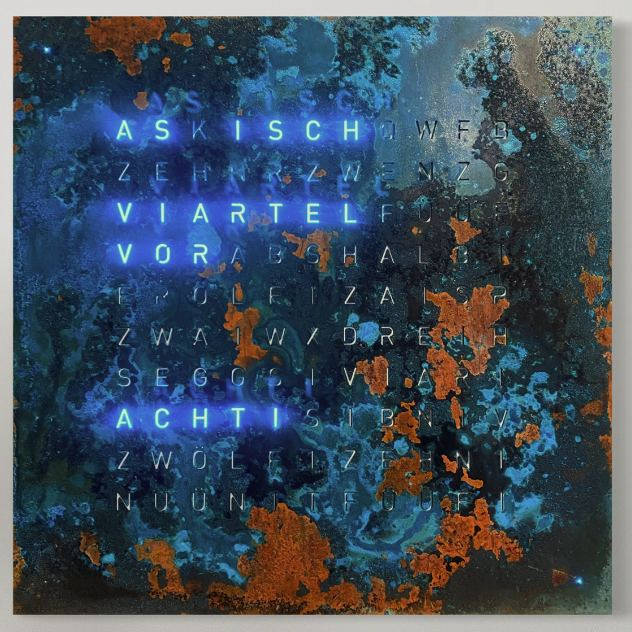
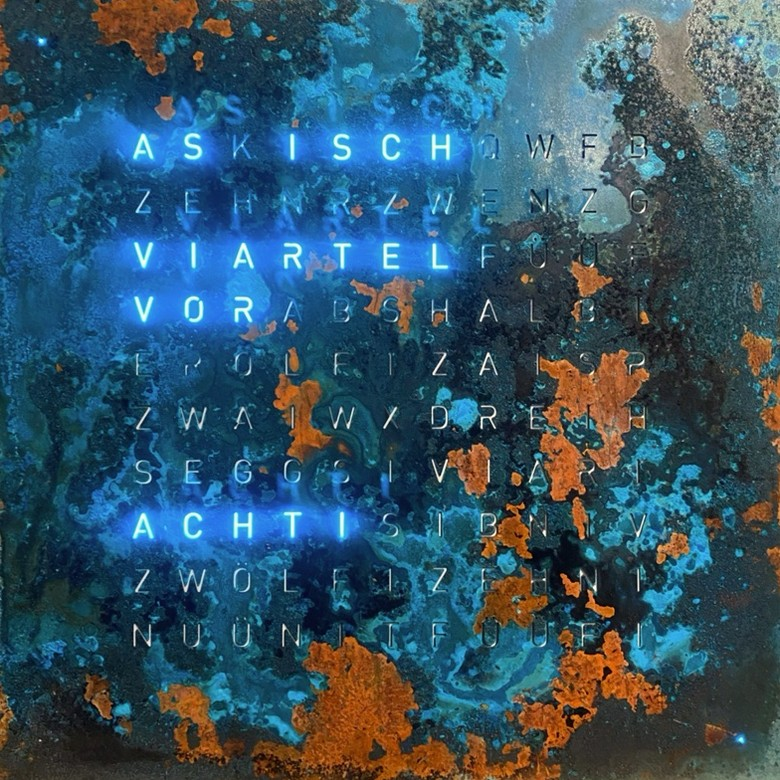
Startbild: Kupferpatina im Raum (Originalfoto)
Claude-Session: https://claude.ai/code/session_017W5qkBRjv2JsauTv83N6ap

diff --git a/index.html b/index.html
@@ -254,7 +254,7 @@ footer .w{display:flex;gap:12px 24px;flex-wrap:wrap;justify-content:space-betwee
         <div class="facts"><span>Ihr eigener Wortlaut</span><span>Jeder RAL- und NCS-Farbton</span><span>Licht per Handy</span><span>Handarbeit aus Fideris</span></div>
       </div>
       <figure class="hero-photo">
-        <img src="bilder/hero-patina.jpg" alt="Wortuhr in Kupferpatina, blau leuchtend: AS ISCH VIARTEL VOR ACHTI" width="1200" height="1200" style="aspect-ratio:1/1">
+        <img src="bilder/hero-patina.jpg" alt="Wortuhr in Kupferpatina über einer Konsole mit Lampe und Vase, blau leuchtend: AS ISCH VIARTEL VOR ACHTI" width="1600" height="1047" style="aspect-ratio:auto">
         <figcaption>Kupferpatina · «As isch viartel vor achti»</figcaption>
       </figure>
     </div>
@@ -392,7 +392,7 @@ footer .w{display:flex;gap:12px 24px;flex-wrap:wrap;justify-content:space-betwee
         <figure data-cat="patina detail"><button type="button" class="g-open" aria-label="Gross anzeigen: Kupferpatina · Nahaufnahme"><img src="bilder/galerie/patina-detail-1.jpg" alt="Kupferpatina mit Buchstaben im Detail" loading="lazy" width="750" height="1000"></button><figcaption>Kupferpatina · Nahaufnahme</figcaption></figure>
         <figure data-cat="patina detail"><button type="button" class="g-open" aria-label="Gross anzeigen: Kupferpatina · Nahaufnahme"><img src="bilder/galerie/patina-detail-4.jpg" alt="Kupferpatina im Detail" loading="lazy" width="750" height="1000"></button><figcaption>Kupferpatina · Nahaufnahme</figcaption></figure>
         <figure data-cat="patina detail"><button type="button" class="g-open" aria-label="Gross anzeigen: Kupferpatina · gewachsene Struktur"><img src="bilder/galerie/patina-detail-2.jpg" alt="Kupferpatina mit Kupferadern" loading="lazy" width="750" height="1000"></button><figcaption>Kupferpatina · gewachsene Struktur</figcaption></figure>
-        <figure data-cat="patina"><button type="button" class="g-open" aria-label="Gross anzeigen: Kupferpatina · «As isch viartel vor achti»"><img src="bilder/galerie/patina-front.jpg" alt="Kupferpatina, blau leuchtend" loading="lazy" width="632" height="632"></button><figcaption>Kupferpatina · «As isch viartel vor achti»</figcaption></figure>
+        <figure data-cat="patina"><button type="button" class="g-open" aria-label="Gross anzeigen: Kupferpatina · «As isch viartel vor achti»"><img src="bilder/galerie/patina-front.jpg" alt="Kupferpatina, blau leuchtend" loading="lazy" width="780" height="780"></button><figcaption>Kupferpatina · «As isch viartel vor achti»</figcaption></figure>
       </div>
     </div>
   </section>
